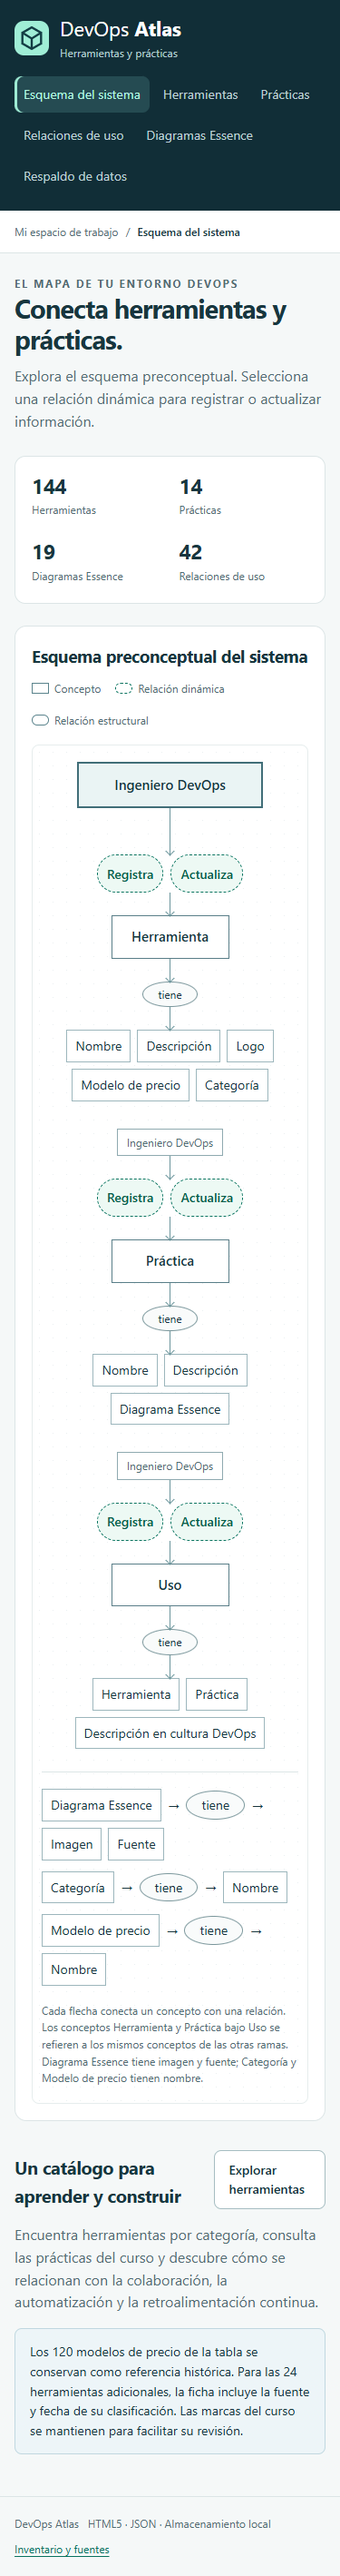
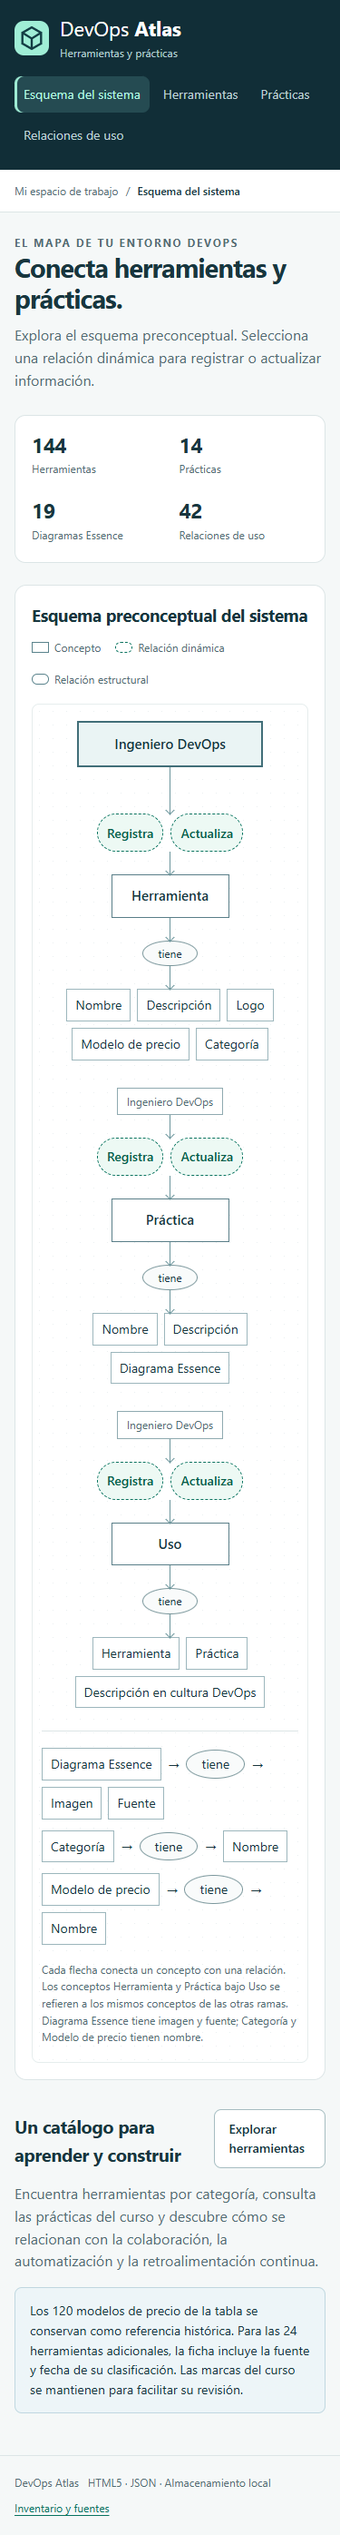
refactor: integrar diagramas Essence dentro de Practicas

Changed region(s): [[0.0, 0.0, 1.0, 0.9971], [0.4107, 0.0, 0.44, 0.0312]]

diff --git a/app/js/practices.js b/app/js/practices.js
@@ -12,7 +12,6 @@ import {
   formError,
   sourceLinks,
   showImage,
-  options,
 } from "./ui.js";
 import { newId } from "./store.js";
 const types = {
@@ -25,6 +24,7 @@ export function renderPractices(store, mode, id) {
   const db = store.data;
   if (mode === "new" || mode === "edit") return form(store, id);
   if (mode === "view") return detail(db, id);
+  const support = db.diagrams.filter((d) => !d.practiceId);
   $("#main").innerHTML =
     intro(
       "Prácticas que dan sentido al proceso.",
@@ -32,7 +32,15 @@ export function renderPractices(store, mode, id) {
       link("#/practices/new", "Registrar práctica", true),
       "PRÁCTICAS DEL CURSO",
     ) +
-    `<div class="toolbar"><div class="search"><label for="search">Buscar práctica</label><input id="search" type="search" placeholder="Nombre o descripción"></div></div><p class="result-count" id="result-count" aria-live="polite"></p><div class="grid" id="practice-grid"></div>`;
+    `<div class="toolbar"><div class="search"><label for="search">Buscar práctica</label><input id="search" type="search" placeholder="Nombre o descripción"></div></div><p class="result-count" id="result-count" aria-live="polite"></p><div class="grid" id="practice-grid"></div>` +
+    (support.length
+      ? `<section aria-labelledby="support-title"><div class="section-title"><h2 id="support-title">Material de apoyo Essence</h2></div><p class="muted">Estos ${support.length} diagramas del curso explican el proceso de pruebas, los conceptos y los símbolos utilizados en las prácticas. Selecciona una imagen para ampliarla.</p><div id="support-grid" class="grid">${support
+          .map(
+            (d) =>
+              `<article class="tool-card"><button class="image-button" data-support="${e(d.id)}" aria-label="Ampliar ${e(d.name)}"><img class="diagram-thumb" src="${e(d.image)}" alt="${e(d.name)}" loading="lazy"></button><div class="body"><span class="tag">${e(types[d.type] || "Material de apoyo")}</span><h3>${e(d.name)}</h3>${sourceLinks(d.references, db.sources)}</div><div class="card-actions"><button data-support="${e(d.id)}">Ampliar</button><span class="muted">Material de apoyo</span></div></article>`,
+          )
+          .join("")}</div></section>`
+      : "");
   function filter() {
     const q = norm($("#search").value),
       rows = db.practices.filter((p) =>
@@ -62,6 +70,19 @@ export function renderPractices(store, mode, id) {
       showImage(p.image, p.name);
     }
   };
+  if (support.length)
+    $("#support-grid").onclick = (event) => {
+      const button = event.target.closest("[data-support]");
+      if (!button) return;
+      const diagram = support.find((d) => d.id === button.dataset.support);
+      showImage(
+        diagram.image,
+        diagram.name,
+        (diagram.references || [])
+          .map((r) => `${r.source}, página ${r.page}`)
+          .join(" · "),
+      );
+    };
   filter();
 }
 function detail(db, id) {
@@ -164,53 +185,4 @@ function form(store, id) {
       button.disabled = false;
     }
   };
-}
-export function renderDiagrams(store) {
-  const db = store.data;
-  $("#main").innerHTML =
-    intro(
-      "El lenguaje visual de las prácticas.",
-      "Explora los diagramas de prácticas, el proceso de pruebas y los elementos de apoyo del núcleo Essence.",
-      "",
-      "BIBLIOTECA ESSENCE",
-    ) +
-    `<div class="toolbar"><div class="search"><label for="search">Buscar diagrama</label><input id="search" type="search" placeholder="Nombre del diagrama"></div><div class="filter"><label for="diagram-type">Tipo</label><select id="diagram-type">${options(
-      Object.entries(types).map(([id, name]) => ({ id, name })),
-      "",
-      "Todos los tipos",
-    )}</select></div></div><p class="result-count" id="result-count" aria-live="polite"></p><div id="diagram-grid" class="grid"></div>`;
-  function filter() {
-    const q = norm($("#search").value),
-      type = $("#diagram-type").value,
-      rows = db.diagrams.filter(
-        (d) =>
-          (!type || d.type === type) && norm(d.name + " " + d.id).includes(q),
-      );
-    $("#result-count").textContent =
-      `${rows.length} de ${db.diagrams.length} diagramas`;
-    $("#diagram-grid").innerHTML = rows.length
-      ? rows
-          .map(
-            (d) =>
-              `<article class="tool-card"><button class="image-button" data-image="${e(d.id)}" aria-label="Ampliar ${e(d.name)}"><img class="diagram-thumb" src="${e(d.image)}" alt="${e(d.name)}" loading="lazy"></button><div class="body"><span class="tag">${e(types[d.type])}</span><h2>${e(d.name)}</h2>${sourceLinks(d.references, db.sources)}</div><div class="card-actions"><button data-image="${e(d.id)}">Ampliar</button>${d.practiceId ? `<a href="#/practices/view/${e(d.practiceId)}">Ver práctica</a>` : '<span class="muted">Material de apoyo</span>'}</div></article>`,
-          )
-          .join("")
-      : empty("No hay coincidencias", "Prueba otro nombre o tipo de diagrama.");
-  }
-  $("#search").oninput = filter;
-  $("#diagram-type").onchange = filter;
-  $("#diagram-grid").onclick = (event) => {
-    const b = event.target.closest("[data-image]");
-    if (b) {
-      const d = db.diagrams.find((d) => d.id === b.dataset.image);
-      showImage(
-        d.image,
-        d.name,
-        (d.references || [])
-          .map((r) => `${r.source}, página ${r.page}`)
-          .join(" · "),
-      );
-    }
-  };
-  filter();
 }

diff --git a/app/js/app.js b/app/js/app.js
@@ -1,7 +1,7 @@
 import { $, escape, intro, link, notify } from "./ui.js";
 import { Database, STORAGE_KEY } from "./store.js";
 import { renderTools } from "./tools.js";
-import { renderPractices, renderDiagrams } from "./practices.js";
+import { renderPractices } from "./practices.js";
 import { renderUsages } from "./usages.js";
 import { renderBackup } from "./backup.js";
 const store = new Database();
@@ -11,7 +11,6 @@ const titles = {
   tools: "Herramientas",
   practices: "Prácticas",
   usages: "Relaciones de uso",
-  diagrams: "Diagramas Essence",
   backup: "Respaldo de datos",
 };
 export function home(
@@ -36,6 +35,10 @@ function route(moveFocus = true) {
   const [section = "home", mode, id] = (
     location.hash.slice(2).split("?")[0] || "home"
   ).split("/");
+  if (section === "diagrams") {
+    location.replace("#/practices");
+    return;
+  }
   $("#breadcrumb").textContent = titles[section] || "Página";
   document.title = `${titles[section] || "DevOps Atlas"} · DevOps Atlas`;
   document.querySelectorAll("[data-nav]").forEach((a) => {
@@ -47,7 +50,6 @@ function route(moveFocus = true) {
   if (section === "home") $("#main").innerHTML = home(store.data);
   else if (section === "tools") renderTools(store, mode, id);
   else if (section === "practices") renderPractices(store, mode, id);
-  else if (section === "diagrams") renderDiagrams(store);
   else if (section === "usages") renderUsages(store, mode, id);
   else if (section === "backup") renderBackup(store);
   else

diff --git a/app/index.html b/app/index.html
@@ -33,9 +33,6 @@
         <a data-nav="usages" href="#/usages"
           ><span aria-hidden="true">⤬</span> Relaciones de uso</a
         >
-        <a data-nav="diagrams" href="#/diagrams"
-          ><span aria-hidden="true">▧</span> Diagramas Essence</a
-        >
       </nav>
       <div class="sidebar-foot">
         <span class="course-pill">INTEGRACIÓN Y DESPLIEGUE</span>

diff --git a/docs/matriz-requisitos.md b/docs/matriz-requisitos.md
@@ -9,7 +9,7 @@ Fuente: `inventario/fuentes/supletorio.pdf`, página 1. Responsable: Juan José 
 | Registrar/actualizar herramientas con logo, nombre, descripción, precio y categoría | `app/js/tools.js` | Registro y edición de herramienta con imagen cargada |
 | Herramientas de los bloques exigidos | `app/data/database.json`, 144 herramientas | Test de igualdad exacta de IDs con el inventario |
 | Registrar/actualizar prácticas con nombre, descripción e imagen | `app/js/practices.js` | Registro, edición y sincronización del diagrama |
-| Incluir todos los diagramas Essence | 19 diagramas, 14 prácticas, 21 referencias de aparición | Tests de fuentes y galería filtrable |
+| Incluir todos los diagramas Essence | 19 diagramas dentro de Prácticas: 14 en sus fichas y 5 de apoyo; 21 referencias de aparición | Tests de fuentes, cobertura de los 19 diagramas y ampliación de imágenes |
 | Registrar/actualizar usos por práctica con descripción cultural | `app/js/usages.js`, 42 ejemplos iniciales | Registro/edición de uso e integridad de referencias |
 | Simular base en almacenamiento interno de Chrome | `app/js/store.js`, clave `devops-atlas:v1` | Recarga y cierre/reapertura de Chrome con el mismo perfil |
 | JSON semejante a estructura persistida | Mismo contrato en semilla, localStorage y respaldo | Exportación/restauración con igualdad de datos |
@@ -30,6 +30,6 @@ Fuente: `inventario/fuentes/supletorio.pdf`, página 1. Responsable: Juan José 
 
 ## Resultados
 
-`evidencias/pruebas-datos.xml`: 24 casos aprobados. `evidencias/pruebas-navegador.json`: 53 comprobaciones aprobadas en Google Chrome 157.0.8103.79. Las pruebas utilizan perfiles aislados; no borran datos personales del navegador.
+`evidencias/pruebas-datos.xml`: 24 casos aprobados. `evidencias/pruebas-navegador.json`: 55 comprobaciones aprobadas en Google Chrome 157.0.8103.79. Las pruebas utilizan perfiles aislados; no borran datos personales del navegador.
 
 Las verificaciones automatizadas comprueban cobertura, integridad y comportamiento. La ejecución desde el ZIP extraído se registra en `evidencias/entrega-limpia.json`. No se ha realizado el envío a MinasLap.

diff --git a/docs/guia.md b/docs/guia.md
@@ -29,7 +29,7 @@ Los formularios aceptan imágenes PNG, JPEG o WebP de hasta 1 MB. La vista previ
 
 En Herramientas puedes buscar por nombre, alias, descripción o ID y filtrar por categoría. La ficha muestra su función, las prácticas relacionadas, el modelo de precio registrado, la referencia histórica y sus fuentes.
 
-En Prácticas puedes consultar su descripción, ampliar el diagrama y revisar usos concretos de herramientas. La biblioteca Diagramas Essence incluye las 14 prácticas y 5 diagramas de apoyo: proceso detallado de pruebas, alphas, espacios de actividad, competencias y notación. Escape cierra la ampliación.
+En Prácticas puedes consultar su descripción, ampliar el diagrama y revisar usos concretos de herramientas. Cada una de las 14 prácticas incluye su diagrama. Al final de la misma página, «Material de apoyo Essence» reúne los otros 5 diagramas: proceso detallado de pruebas, alphas, espacios de actividad, competencias y notación. Así se conservan los 19 diagramas del curso sin una sección independiente en el menú. Escape cierra la ampliación.
 
 Las relaciones de uso son ejemplos elaborados para explicar colaboración, automatización, retroalimentación y trazabilidad. No son integraciones que esta aplicación ejecute con los productos catalogados. Las prácticas académicas de conceptualización y certificación simulada conservan su sentido educativo.
 

diff --git a/docs/entrega.md b/docs/entrega.md
@@ -18,7 +18,7 @@
 | 3. Diseño | Contrato JSON, navegación y esquema preconceptual |
 | 4. Implementación | Seis operaciones, consulta, persistencia y respaldo |
 | 5. Contenido | Fichas, logos, prácticas, diagramas y usos iniciales |
-| 6. Verificación | 24 casos de datos y 53 comprobaciones en Chrome |
+| 6. Verificación | 24 casos de datos y 55 comprobaciones en Chrome |
 | 7. Entrega | Guías, evidencias y ZIP con verificación desde copia extraída |
 
 Las tarjetas permanecen en Backlog según lo solicitado. La lista no se utilizó para simular avance. La evidencia real de desarrollo está en Git, las pruebas y esta documentación. El responsable se escribió en cada descripción; la versión del MCP utilizada no permite asignar nativamente un miembro a una tarjeta.
@@ -36,7 +36,7 @@ El paquete no incluye `node_modules`, perfiles de Chrome, archivos temporales ni
 3. Registrar y editar una herramienta y una práctica con imagen.
 4. Relacionarlas mediante un uso que explique el aporte a cultura DevOps; editar el uso.
 5. Recargar para demostrar persistencia.
-6. Mostrar los 19 diagramas y distinguir prácticas de material de apoyo.
+6. Mostrar en Prácticas los 14 diagramas de sus fichas y los 5 de «Material de apoyo Essence».
 7. Mostrar el tablero y revisar el historial y las evidencias.
 
 ## Envío pendiente del estudiante

diff --git a/docs/diseno.md b/docs/diseno.md
@@ -34,7 +34,7 @@ La notación sigue la descripción de [Zapata, Tamayo y Arango, sección 2.3](ht
 
 ## Recorridos
 
-El esquema abre Registrar o Actualizar para cada entidad. Registrar abre un formulario vacío; Actualizar abre un catálogo con búsqueda y botones de edición. Los formularios tienen validaciones, previsualización de imagen cuando corresponde, confirmación de guardado y cancelación. Se puede consultar el catálogo sin editar. La galería Essence distingue prácticas y material de apoyo.
+El esquema abre Registrar o Actualizar para cada entidad. Registrar abre un formulario vacío; Actualizar abre un catálogo con búsqueda y botones de edición. Los formularios tienen validaciones, previsualización de imagen cuando corresponde, confirmación de guardado y cancelación. Se puede consultar el catálogo sin editar. La página Prácticas reúne los diagramas de sus fichas y, al final, los cinco diagramas de apoyo Essence. La antigua dirección de la galería redirige a Prácticas.
 
 ## Decisiones de contenido
 

diff --git a/README.md b/README.md
@@ -61,7 +61,7 @@ Con la aplicación servida en `http://127.0.0.1:8765/app/` y Chrome instalado:
 npm run test:e2e
 ```
 
-Se verificaron **24 casos de datos/persistencia** y **53 comprobaciones en Google Chrome 157**, con perfiles aislados, recarga, cierre/reapertura, restauración y pantallas de 375, 768 y 1440 píxeles. Los resultados están en `evidencias/`. La suite no utiliza el perfil personal del navegador.
+Se verificaron **24 casos de datos/persistencia** y **55 comprobaciones en Google Chrome 157**, con perfiles aislados, recarga, cierre/reapertura, restauración y pantallas de 375, 768 y 1440 píxeles. Los resultados están en `evidencias/`. La suite no utiliza el perfil personal del navegador.
 
 ## Generar la entrega
 
